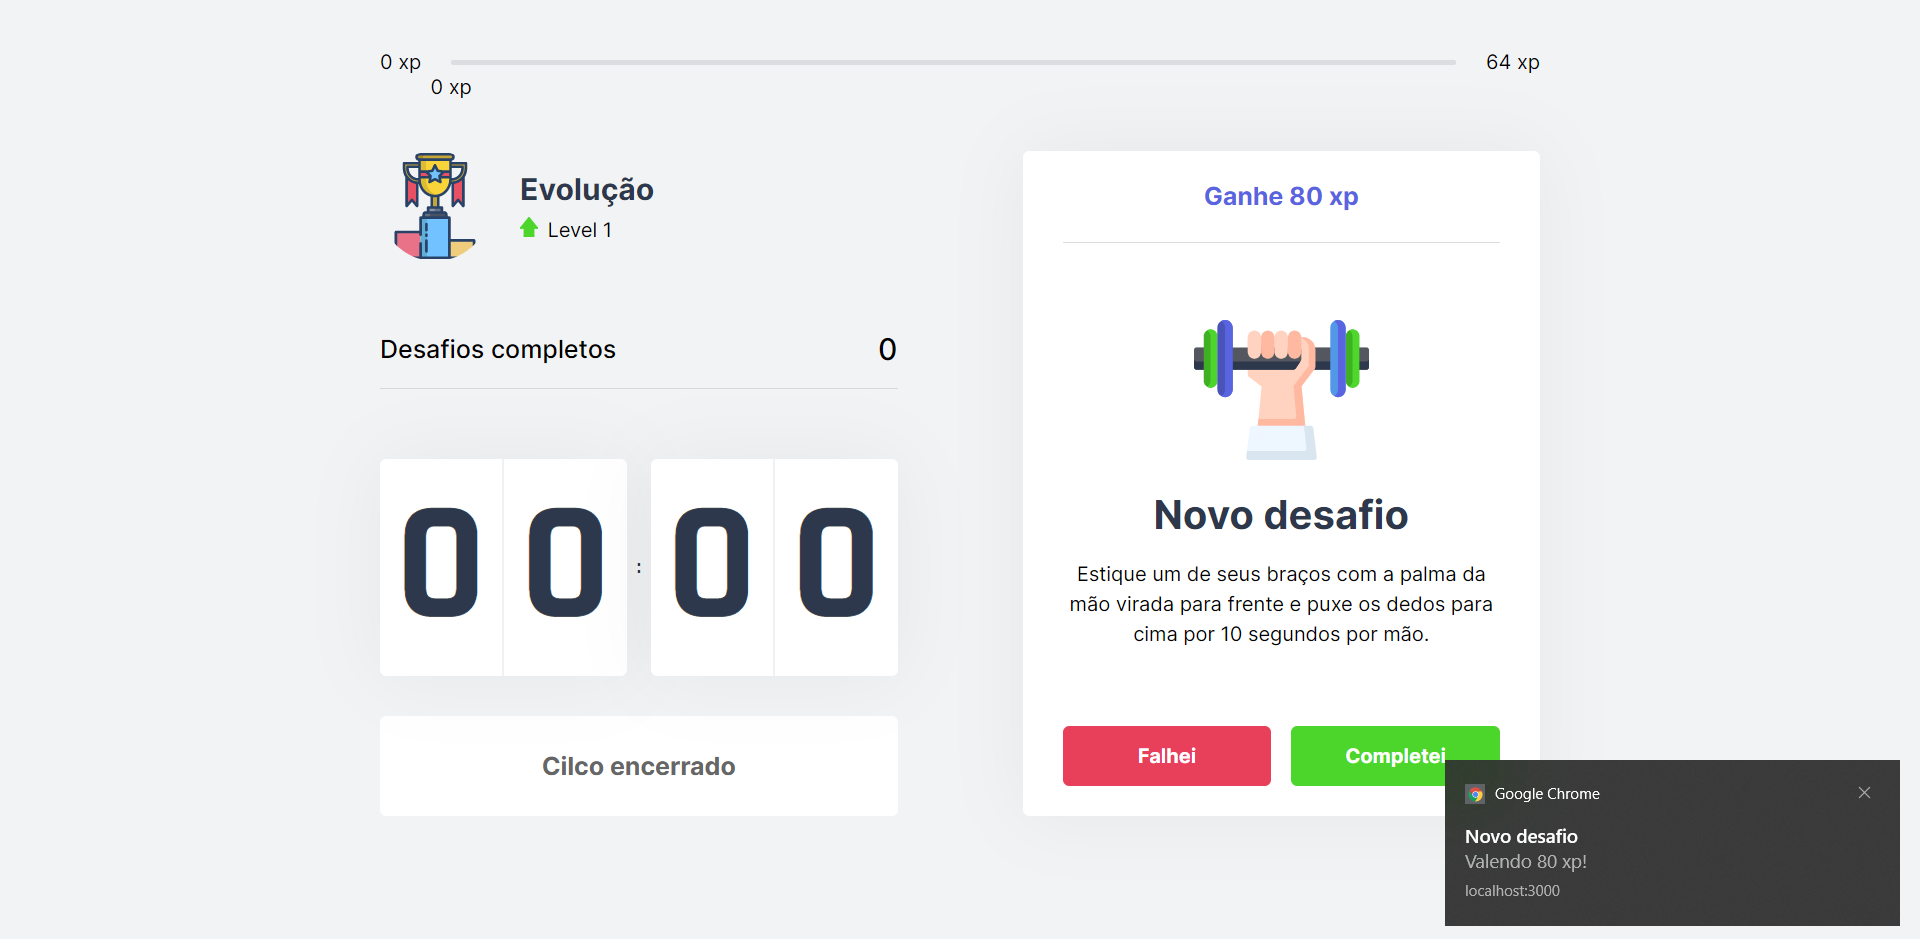
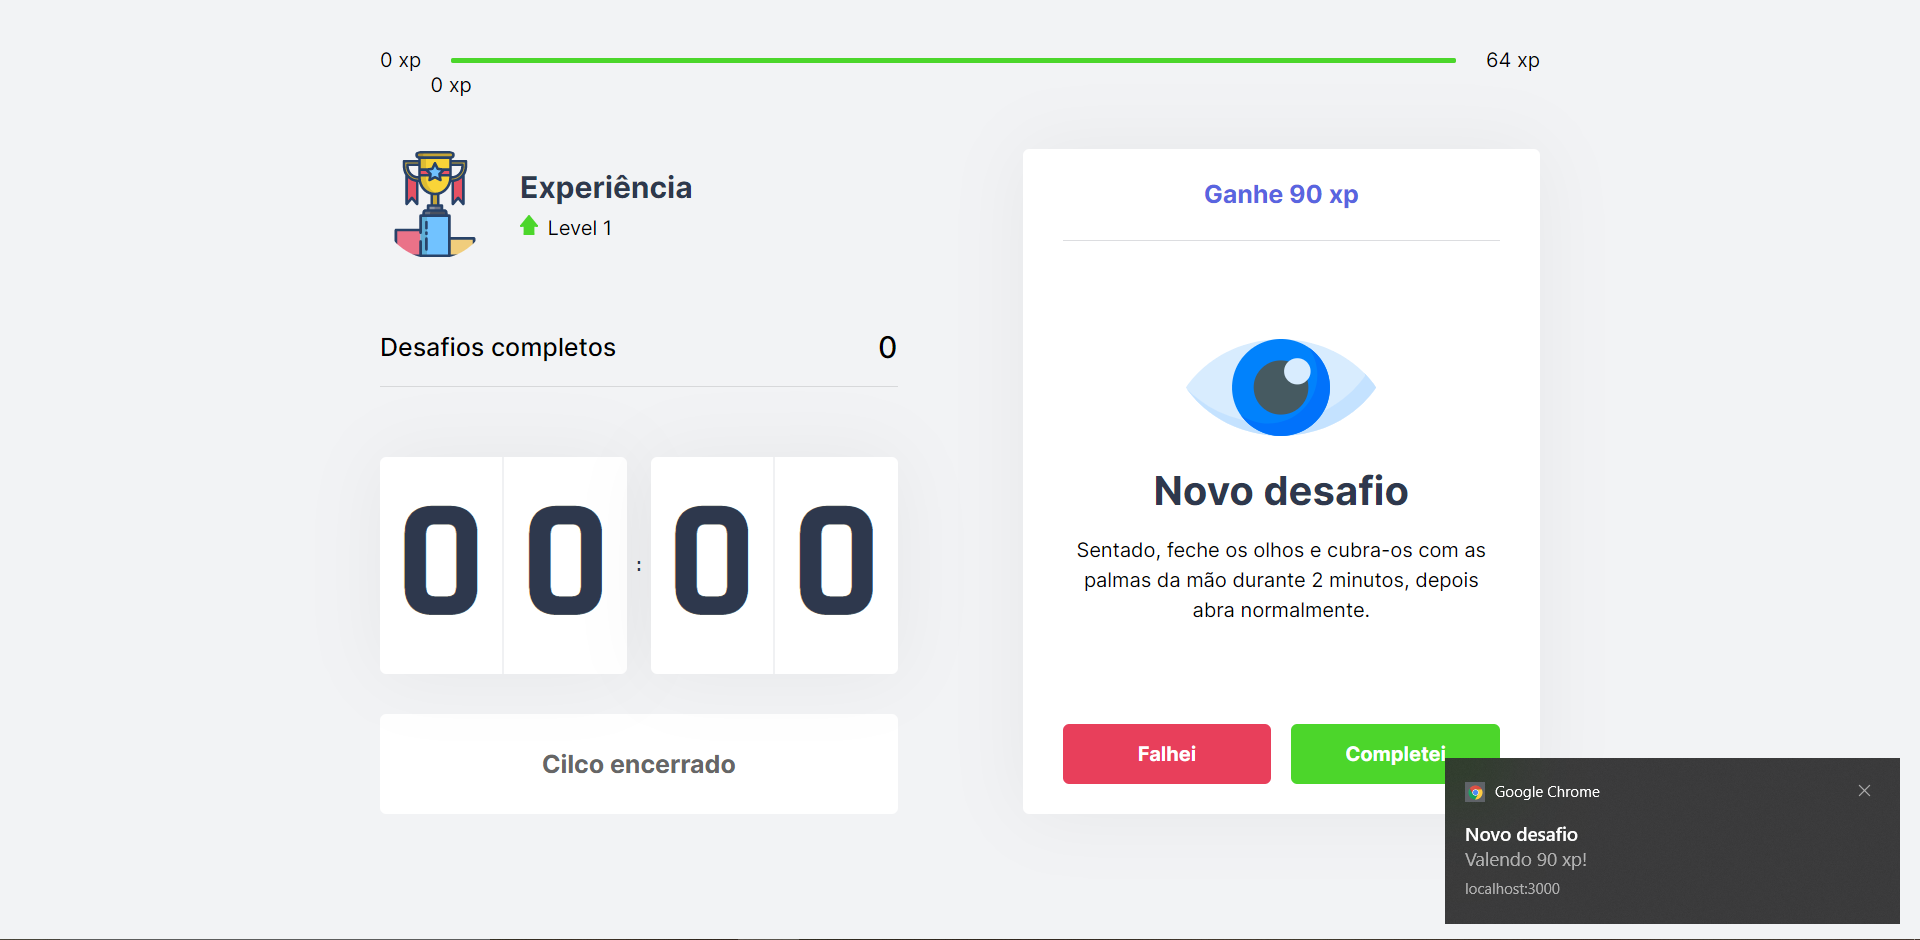
Atualizando pertfil e images

diff --git a/src/components/Profile.tsx b/src/components/Profile.tsx
@@ -10,7 +10,7 @@ export function Profile() {
         <div className={styles.profileContainer}>
             <img src="/award.svg" alt="Usuário" />
             <div>
-                <strong>Evolução</strong>
+                <strong>Experiência</strong>
                 <p>
                     <img src="icons/level.svg" alt="Level" />
                     Level {level}
